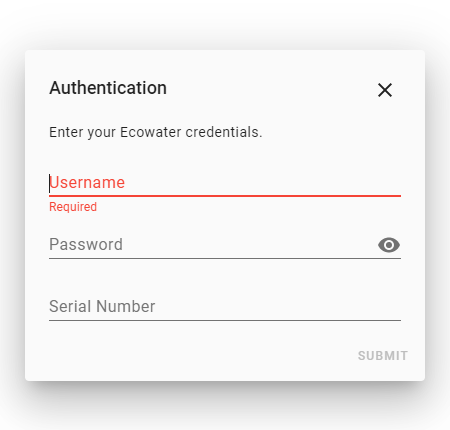
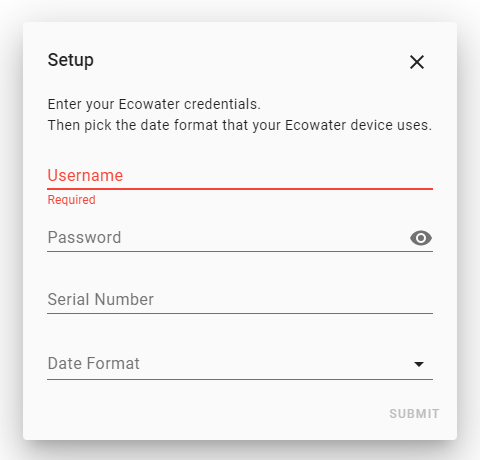
Add files via upload

diff --git a/README.md b/README.md
@@ -9,7 +9,6 @@ It will create one sensor with multiple attributes.
 ## Installation
 
 #### HACS
-Coming Soon
 
 #### Manually
 Copy the `custom_components/ecowater_softener` folder into the config folder.
@@ -20,6 +19,8 @@ To add an Ecowater water softener, go to Configuration > Integrations in the UI.
 ![Ecowater custom component setup dialog](setup.png)
 
 You then need to enter the information you use to login on [https://www.wifi.ecowater.com/Site/Login](https://www.wifi.ecowater.com/Site/Login).
+
+Then you will need to select the date format that your Ecowater device uses. You can check this under the `Out of Salt Date` and `Last Recharge` at [https://www.wifi.ecowater.com/Site/Login](https://www.wifi.ecowater.com/Site/Login).
 
 This will then create an entity `sensor.ecowater_serialnumberhere`. This sensor will update every 30 minutes.
 
